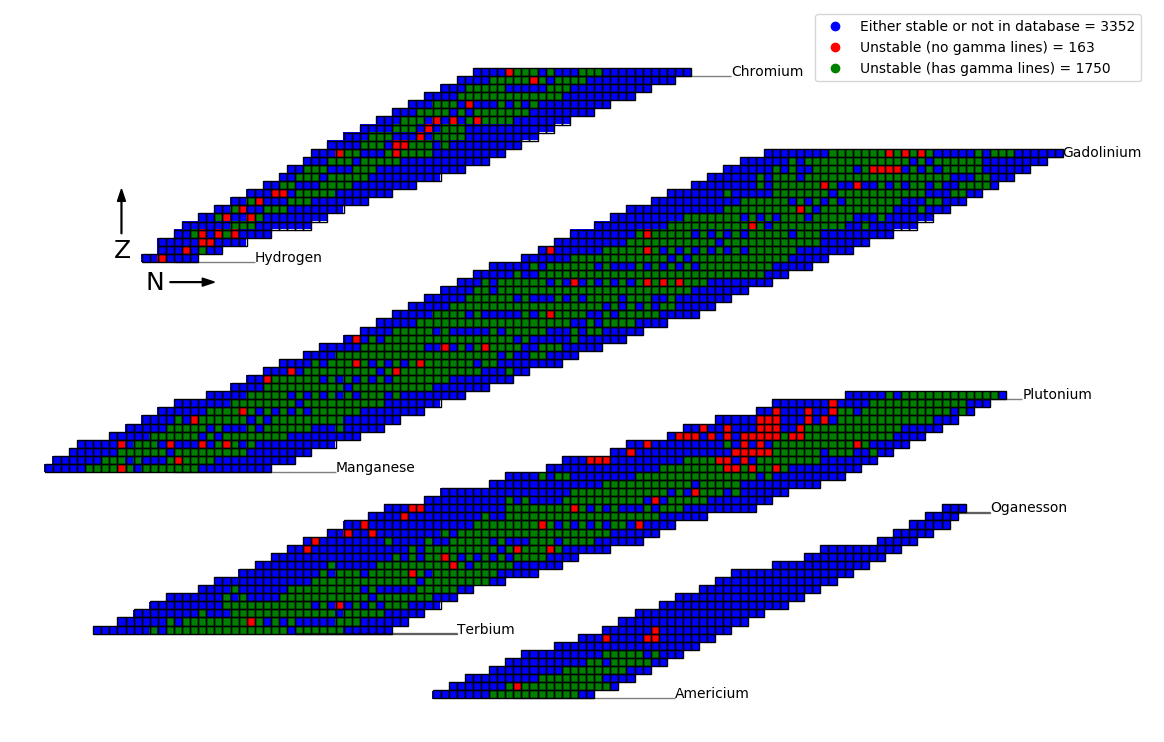
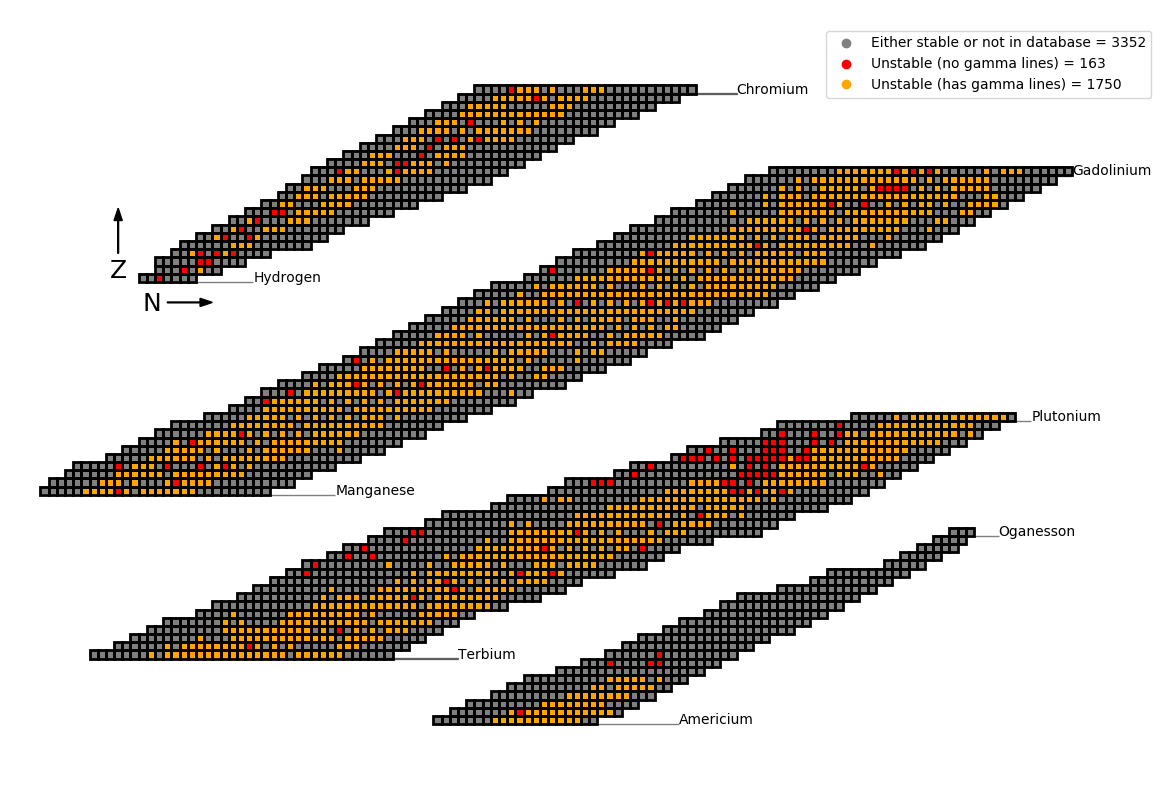
Playing with chart of nuclides script to improve plotting

Changed region(s): [[0.0309, 0.186, 0.9897, 0.9609], [0.0928, 0.031, 0.9897, 0.403]]

diff --git a/examples/plotchartofnuclides.py b/examples/plotchartofnuclides.py
@@ -1,139 +1,208 @@
-import matplotlib.pyplot as plt
-import matplotlib.patches as patches
-import matplotlib.colors as colors
-from matplotlib import cm
+
 import numpy as np
 import pypact as pp
 
 import actigamma as ag
 
-COLOURS = ['white', 'blue', 'red', 'green']
-cmap = colors.ListedColormap(COLOURS)
 
-def nuclide_mapping(Z, A):
+class ColouredChartOfNuclidesPlot():
     """
-        Return X, Y position where A is on X
-        and Z is on Y.
-        
-        Note different to input!        
+        A simple object that produces a chart of the nuclides
+        plot.
+
+        TODO: Currently builds on matplotlib, but need to allow for
+        other plotting libraries.
     """
-    # split chart into four pieces 
-    if Z <= 24:
-        return int(A+15), int(Z+58)
-    elif Z <= 64:
-        return int(A-40), int(Z+8)
-    elif Z <= 94:
-        return int(A-125), int(Z-52)
-    else:
-        return int(A-178), int(Z-90)
+    import matplotlib.colors as colors
+    import matplotlib.pyplot as plt
 
+    color_engine = colors
+    plt_engine = plt
 
-def make_full_nuclide_chart(data_matrix=None, figsize=(12, 8), cmap='Set1'):
-    XSIZE = 140
-    YSIZE = 90
-    # define an empty matrix of size (90,140)
-    # X and Y are inverted
-    if data_matrix is None:
-        data_matrix = np.zeros(shape=(YSIZE, XSIZE))
-        
-    assert data_matrix.shape == (YSIZE, XSIZE)
+    def __init__(self, data_matrix=None, figsize=(12,8)):
+        import matplotlib.colors as colors
 
-    # make a chart of the nuclides
-    fig, ax = plt.subplots(figsize=figsize)
-    
-    # draw Z and N labels with arrows near H1
-    X, Y = nuclide_mapping(1, 1)
-    plt.text(X-4, Y, r'Z', fontsize=18)
-    plt.text(X, Y-4, r'N', fontsize=18)
+        # must contain white
+        self.colours = ['white']
+        self._cmap = self.color_engine.ListedColormap(self.colours)
 
-    # Z arrow
-    plt.arrow(X-3, Y+3, 0, 4, fc='k', ec='k', alpha=1.0, width=0.1,
-                head_width=1, head_length=None)
+        # make a chart of the nuclides
+        self.fig, self.ax = self.plt_engine.subplots(figsize=figsize)
 
-    # N arrow
-    plt.arrow(X+3, Y-3, 4, 0, fc='k', ec='k', alpha=1.0, width=0.1,
-                head_width=1, head_length=None)
+        # all isotopes
+        self.all_isotopes = []
 
-    all_isotopes = []
-    mZ = -1
-    mA = -1
-    for d in pp.NUCLIDE_DICTIONARY:
-        for i in d['isotopes']:
-            mZ = max(mZ, d['Z'])
-            mA = max(mA, i)
+        # do not change these values without knowing what you are doing
+        # bespokely made for splitting into four pieces to plot well
+        self.__XSIZE = 140
+        self.__YSIZE = 90
 
-            X, Y = nuclide_mapping(d['Z'], i)
-            all_isotopes.append((X, Y))
-            rect = patches.Rectangle((X-0.5, Y-0.5), 1, 1, linewidth=1, edgecolor='k',facecolor='none')
-            ax.add_patch(rect)
+        # define an empty matrix of size (self.__YSIZE, self.__XSIZE)
+        # X and Y are inverted
+        self.data_matrix = data_matrix
+        if self.data_matrix is None:
+            self.data_matrix = np.zeros(shape=(self.__YSIZE, self.__XSIZE))
 
-    # identify key elements
-    # Hydrogen
-    X, Y = nuclide_mapping(1, 5)
-    plt.text(X-0.5+10, Y-0.5, r'Hydrogen', fontsize=10)
-    plt.arrow(X-0.5, Y-0.5, 10, 0, fc='k', ec='k', alpha=0.5, width=0.05,
-                head_width=0, head_length=0)
+        assert self.data_matrix.shape == (self.__YSIZE, self.__XSIZE)
 
-    # Chromium
-    X, Y = nuclide_mapping(24, 54)
-    plt.text(X-0.5+20, Y-0.5, r'Chromium', fontsize=10)
-    plt.arrow(X-0.5, Y-0.5, 20, 0, fc='k', ec='k', alpha=0.5, width=0.05,
-                head_width=0, head_length=0)
-
-    # Manganese
-    X, Y = nuclide_mapping(25, 60)
-    plt.text(X-0.5+20, Y-0.5, r'Manganese', fontsize=10)
-    plt.arrow(X-0.5, Y-0.5, 20, 0, fc='k', ec='k', alpha=0.5, width=0.05,
-                head_width=0, head_length=0)
-
-    # Gadolinium
-    X, Y = nuclide_mapping(64, 160)
-    plt.text(X-0.5+10, Y-0.5, r'Gadolinium', fontsize=10)
-    plt.arrow(X-0.5, Y-0.5, 10, 0, fc='k', ec='k', alpha=0.5, width=0.05,
-                head_width=0, head_length=0)
-
-    # Terbium
-    X, Y = nuclide_mapping(65, 160)
-    plt.text(X-0.5+20, Y-0.5, r'Terbium', fontsize=10)
-    plt.arrow(X-0.5, Y-0.5, 20, 0, fc='k', ec='k', alpha=0.5, width=0.05,
-                head_width=0, head_length=0)
-
-    # Plutonium
-    X, Y = nuclide_mapping(94, 235)
-    plt.text(X-0.5+15, Y-0.5, r'Plutonium', fontsize=10)
-    plt.arrow(X-0.5, Y-0.5, 15, 0, fc='k', ec='k', alpha=0.5, width=0.05,
-                head_width=0, head_length=0)
-
-    # Americium
-    X, Y = nuclide_mapping(95, 240)
-    plt.text(X-0.5+20, Y-0.5, r'Americium', fontsize=10)
-    plt.arrow(X-0.5, Y-0.5, 20, 0, fc='k', ec='k', alpha=0.5, width=0.05,
-                head_width=0, head_length=0)
-
-    # Oganesson
-    X, Y = nuclide_mapping(118, 294)
-    plt.text(X-0.5+5, Y-0.5, r'Oganesson', fontsize=10)
-    plt.arrow(X-0.5, Y-0.5, 5, 0, fc='k', ec='k', alpha=0.5, width=0.05,
-                head_width=0, head_length=0)
+    @classmethod
+    def _mappingfunc(cls, Z, A):
+        """
+            Return X, Y position where A is on X
+            and Z is on Y.
             
-    # set everything that is not in the nuclide chart to white
-    for x in range(XSIZE):
-        for y in range(YSIZE):
-            if (x, y) not in all_isotopes:
-                data_matrix[y, x] = COLOURS.index('white')
-                
-    im = plt.imshow(data_matrix, cmap=cmap)
-    # ax.invert_yaxis()
-    ax.axis('off')
-    plt.xlabel("A", fontsize=16)
-    plt.ylabel("Z", fontsize=16)
-    plt.xlim([0, XSIZE])
-    plt.ylim([0, YSIZE])
-    plt.subplots_adjust(left=0.01, bottom=0.01, right=0.99, top=0.99, wspace=None, hspace=None)
-    # fig.colorbar(im, cax = fig.add_axes([0.91, 0.2, 0.03, 0.6]))
-    
-    return fig, ax
+            Note different to input!        
+        """
+        # split chart into four pieces
+        if Z <= 24:
+            return int(A+15), int(Z+58)
+        elif Z <= 64:
+            return int(A-40), int(Z+8)
+        elif Z <= 94:
+            return int(A-125), int(Z-52)
+        else:
+            return int(A-178), int(Z-90)
 
+    def _makelabels(self):
+        X, Y = self._mappingfunc(1, 1)
+        self.plt_engine.text(X-4, Y, r'Z', fontsize=18)
+        self.plt_engine.text(X, Y-4, r'N', fontsize=18)
+
+        # Z arrow
+        self.plt_engine.arrow(X-3, Y+3, 0, 4, fc='k', ec='k', alpha=1.0, width=0.1,
+                    head_width=1, head_length=None)
+
+        # N arrow
+        self.plt_engine.arrow(X+3, Y-3, 4, 0, fc='k', ec='k', alpha=1.0, width=0.1,
+                    head_width=1, head_length=None)
+
+        # identify key elements
+        # Hydrogen
+        X, Y = self._mappingfunc(1, 5)
+        self.plt_engine.text(X-0.5+10, Y-0.5, r'Hydrogen', fontsize=10)
+        self.plt_engine.arrow(X-0.5, Y-0.5, 10, 0, fc='k', ec='k', alpha=0.5, width=0.05,
+                    head_width=0, head_length=0)
+
+        # Chromium
+        X, Y = self._mappingfunc(24, 54)
+        self.plt_engine.text(X-0.5+20, Y-0.5, r'Chromium', fontsize=10)
+        self.plt_engine.arrow(X-0.5, Y-0.5, 20, 0, fc='k', ec='k', alpha=0.5, width=0.05,
+                    head_width=0, head_length=0)
+
+        # Manganese
+        X, Y = self._mappingfunc(25, 60)
+        self.plt_engine.text(X-0.5+20, Y-0.5, r'Manganese', fontsize=10)
+        self.plt_engine.arrow(X-0.5, Y-0.5, 20, 0, fc='k', ec='k', alpha=0.5, width=0.05,
+                    head_width=0, head_length=0)
+
+        # Gadolinium
+        X, Y = self._mappingfunc(64, 160)
+        self.plt_engine.text(X-0.5+10, Y-0.5, r'Gadolinium', fontsize=10)
+        self.plt_engine.arrow(X-0.5, Y-0.5, 10, 0, fc='k', ec='k', alpha=0.5, width=0.05,
+                    head_width=0, head_length=0)
+
+        # Terbium
+        X, Y = self._mappingfunc(65, 160)
+        self.plt_engine.text(X-0.5+20, Y-0.5, r'Terbium', fontsize=10)
+        self.plt_engine.arrow(X-0.5, Y-0.5, 20, 0, fc='k', ec='k', alpha=0.5, width=0.05,
+                    head_width=0, head_length=0)
+
+        # Plutonium
+        X, Y = self._mappingfunc(94, 235)
+        self.plt_engine.text(X-0.5+15, Y-0.5, r'Plutonium', fontsize=10)
+        self.plt_engine.arrow(X-0.5, Y-0.5, 15, 0, fc='k', ec='k', alpha=0.5, width=0.05,
+                    head_width=0, head_length=0)
+
+        # Americium
+        X, Y = self._mappingfunc(95, 240)
+        self.plt_engine.text(X-0.5+20, Y-0.5, r'Americium', fontsize=10)
+        self.plt_engine.arrow(X-0.5, Y-0.5, 20, 0, fc='k', ec='k', alpha=0.5, width=0.05,
+                    head_width=0, head_length=0)
+
+        # Oganesson
+        X, Y = self._mappingfunc(118, 294)
+        self.plt_engine.text(X-0.5+5, Y-0.5, r'Oganesson', fontsize=10)
+        self.plt_engine.arrow(X-0.5, Y-0.5, 5, 0, fc='k', ec='k', alpha=0.5, width=0.05,
+                    head_width=0, head_length=0)
+
+    def _makechart(self):
+        import matplotlib.patches as patches
+
+        self.all_isotopes = []
+
+        mZ = -1
+        mA = -1
+        for d in pp.NUCLIDE_DICTIONARY:
+            for i in d['isotopes']:
+                mZ = max(mZ, d['Z'])
+                mA = max(mA, i)
+
+                X, Y = self._mappingfunc(d['Z'], i)
+                self.all_isotopes.append((X, Y))
+                self.ax.add_patch(patches.Rectangle((X-0.5, Y-0.5), 1, 1, 
+                                                linewidth=2, edgecolor='k', 
+                                                facecolor='none'))
+    
+    def _setbackground(self):
+        """
+            Since we make use of imshow and the whole figure
+            is a matrix, we need to change the background colour 
+            to white to hide the fact we are using imshow
+        """
+        # set everything that is not in the nuclide chart to white
+        for x in range(self.__XSIZE):
+            for y in range(self.__YSIZE):
+                if (x, y) not in self.all_isotopes:
+                    self.data_matrix[y, x] = self.colours.index('white')
+
+    def addlegend(self, labels, colours):
+        art = []
+        for label, colour in zip(labels, colours):
+            art.append(self.plt_engine.Line2D((0,1),(0,0), color=colour, marker='o', linestyle=''))
+
+        self.ax.legend(art, labels)
+
+    def setcolour(self, Z, A, colour="orange"):
+
+        if colour not in self.colours:
+            # add to colour database and reinit cmap
+            self.colours.append(colour)
+            self._cmap = self.color_engine.ListedColormap(self.colours)
+            
+        x, y = self._mappingfunc(z, a)
+        self.data_matrix[y, x] = self.colours.index(colour)
+
+    def setcolourallnuclides(self, colour="black"):
+
+        if colour not in self.colours:
+            # add to colour database and reinit cmap
+            self.colours.append(colour)
+            self._cmap = self.color_engine.ListedColormap(self.colours)
+            
+        self.data_matrix[:, :] = self.colours.index(colour)
+
+    def plot(self, *args, includelabels=True, **kwargs):
+        self._makechart()
+        self._setbackground()
+        
+        # draw Z and N labels with arrows near H1
+        if includelabels:
+            self._makelabels()
+
+        im = self.plt_engine.imshow(self.data_matrix, cmap=self._cmap)
+        self.ax.axis('off')
+        self.plt_engine.xlabel("A", fontsize=16)
+        self.plt_engine.ylabel("Z", fontsize=16)
+        self.plt_engine.xlim([0, self.__XSIZE])
+        self.plt_engine.ylim([0, self.__YSIZE])
+        self.plt_engine.subplots_adjust(left=0.01, bottom=0.01, right=0.99, 
+                                        top=0.99, wspace=None, hspace=None)
+        # fig.colorbar(im, cax = fig.add_axes([0.91, 0.2, 0.03, 0.6]))
+        
+        return self.fig, self.ax
+
+    def show(self):
+        self.plt_engine.show()
 
 """
     Main script 
@@ -143,36 +212,25 @@ SPECTYPE = "gamma"
 db = ag.Decay2012Database()
 allradionuclides = db.allnuclidesoftype(spectype=SPECTYPE)
 
-# for 1 == blue - all nuclides that are either stable or no data in database
-value = COLOURS.index('blue')
-allCount = pp.NUMBER_OF_ISOTOPES
-allnuclideArtist = plt.Line2D((0,1),(0,0), color=COLOURS[value], marker='o', linestyle='')
-data_matrix = np.zeros(shape=(140, 90))
-data_matrix[:, :] = value
-
-# show all radioisotopes
-# for 2 == red - all nuclides that are unstable and exist in database
-value = COLOURS.index('red')
-unstablenuclideArtist = plt.Line2D((0,1),(0,0), color=COLOURS[value], marker='o', linestyle='')
+chart = ColouredChartOfNuclidesPlot()
+chart.setcolourallnuclides('grey')
+# show all radioisotopes as red
 for nuc in db.allnuclides:
     z, a, _ = ag.get_zai_props(db, nuc)
-    x, y = nuclide_mapping(z, a)
-    data_matrix[x, y] = value
-    
-# show all radioisotopes for that spectype
-# for 3 == green - all nuclides that are unstable and have gamma lines in database
-value = COLOURS.index('green')
-allGammaCount = len(allradionuclides)
-allUnstableCount = len(db.allnuclides) - allGammaCount
-gammanuclideArtist = plt.Line2D((0,1),(0,0), color=COLOURS[value], marker='o', linestyle='')
+    chart.setcolour(z, a, colour='red')
+
+# show all radioisotopes for spectype as green
 for nuc in allradionuclides:
     z, a, _ = ag.get_zai_props(db, nuc)
-    x, y = nuclide_mapping(z, a)
-    data_matrix[x, y] = value
+    chart.setcolour(z, a, colour='orange')
 
-fig1, ax1 = make_full_nuclide_chart(data_matrix=data_matrix.transpose(), cmap=cmap)
-ax1.legend([ allnuclideArtist, unstablenuclideArtist, gammanuclideArtist],
-           [ 'Either stable or not in database = {}'.format(allCount), 
+allCount = pp.NUMBER_OF_ISOTOPES
+allGammaCount = len(allradionuclides)
+allUnstableCount = len(db.allnuclides) - allGammaCount
+
+fig1, ax1 = chart.plot(includelabels=True)
+chart.addlegend([ 'Either stable or not in database = {}'.format(allCount), 
            'Unstable (no {} lines) = {}'.format(SPECTYPE, allUnstableCount), 
-           'Unstable (has {} lines) = {}'.format(SPECTYPE, allGammaCount)])
-plt.show()
+           'Unstable (has {} lines) = {}'.format(SPECTYPE, allGammaCount)], 
+           ['grey', 'red', 'orange'])
+chart.show()
